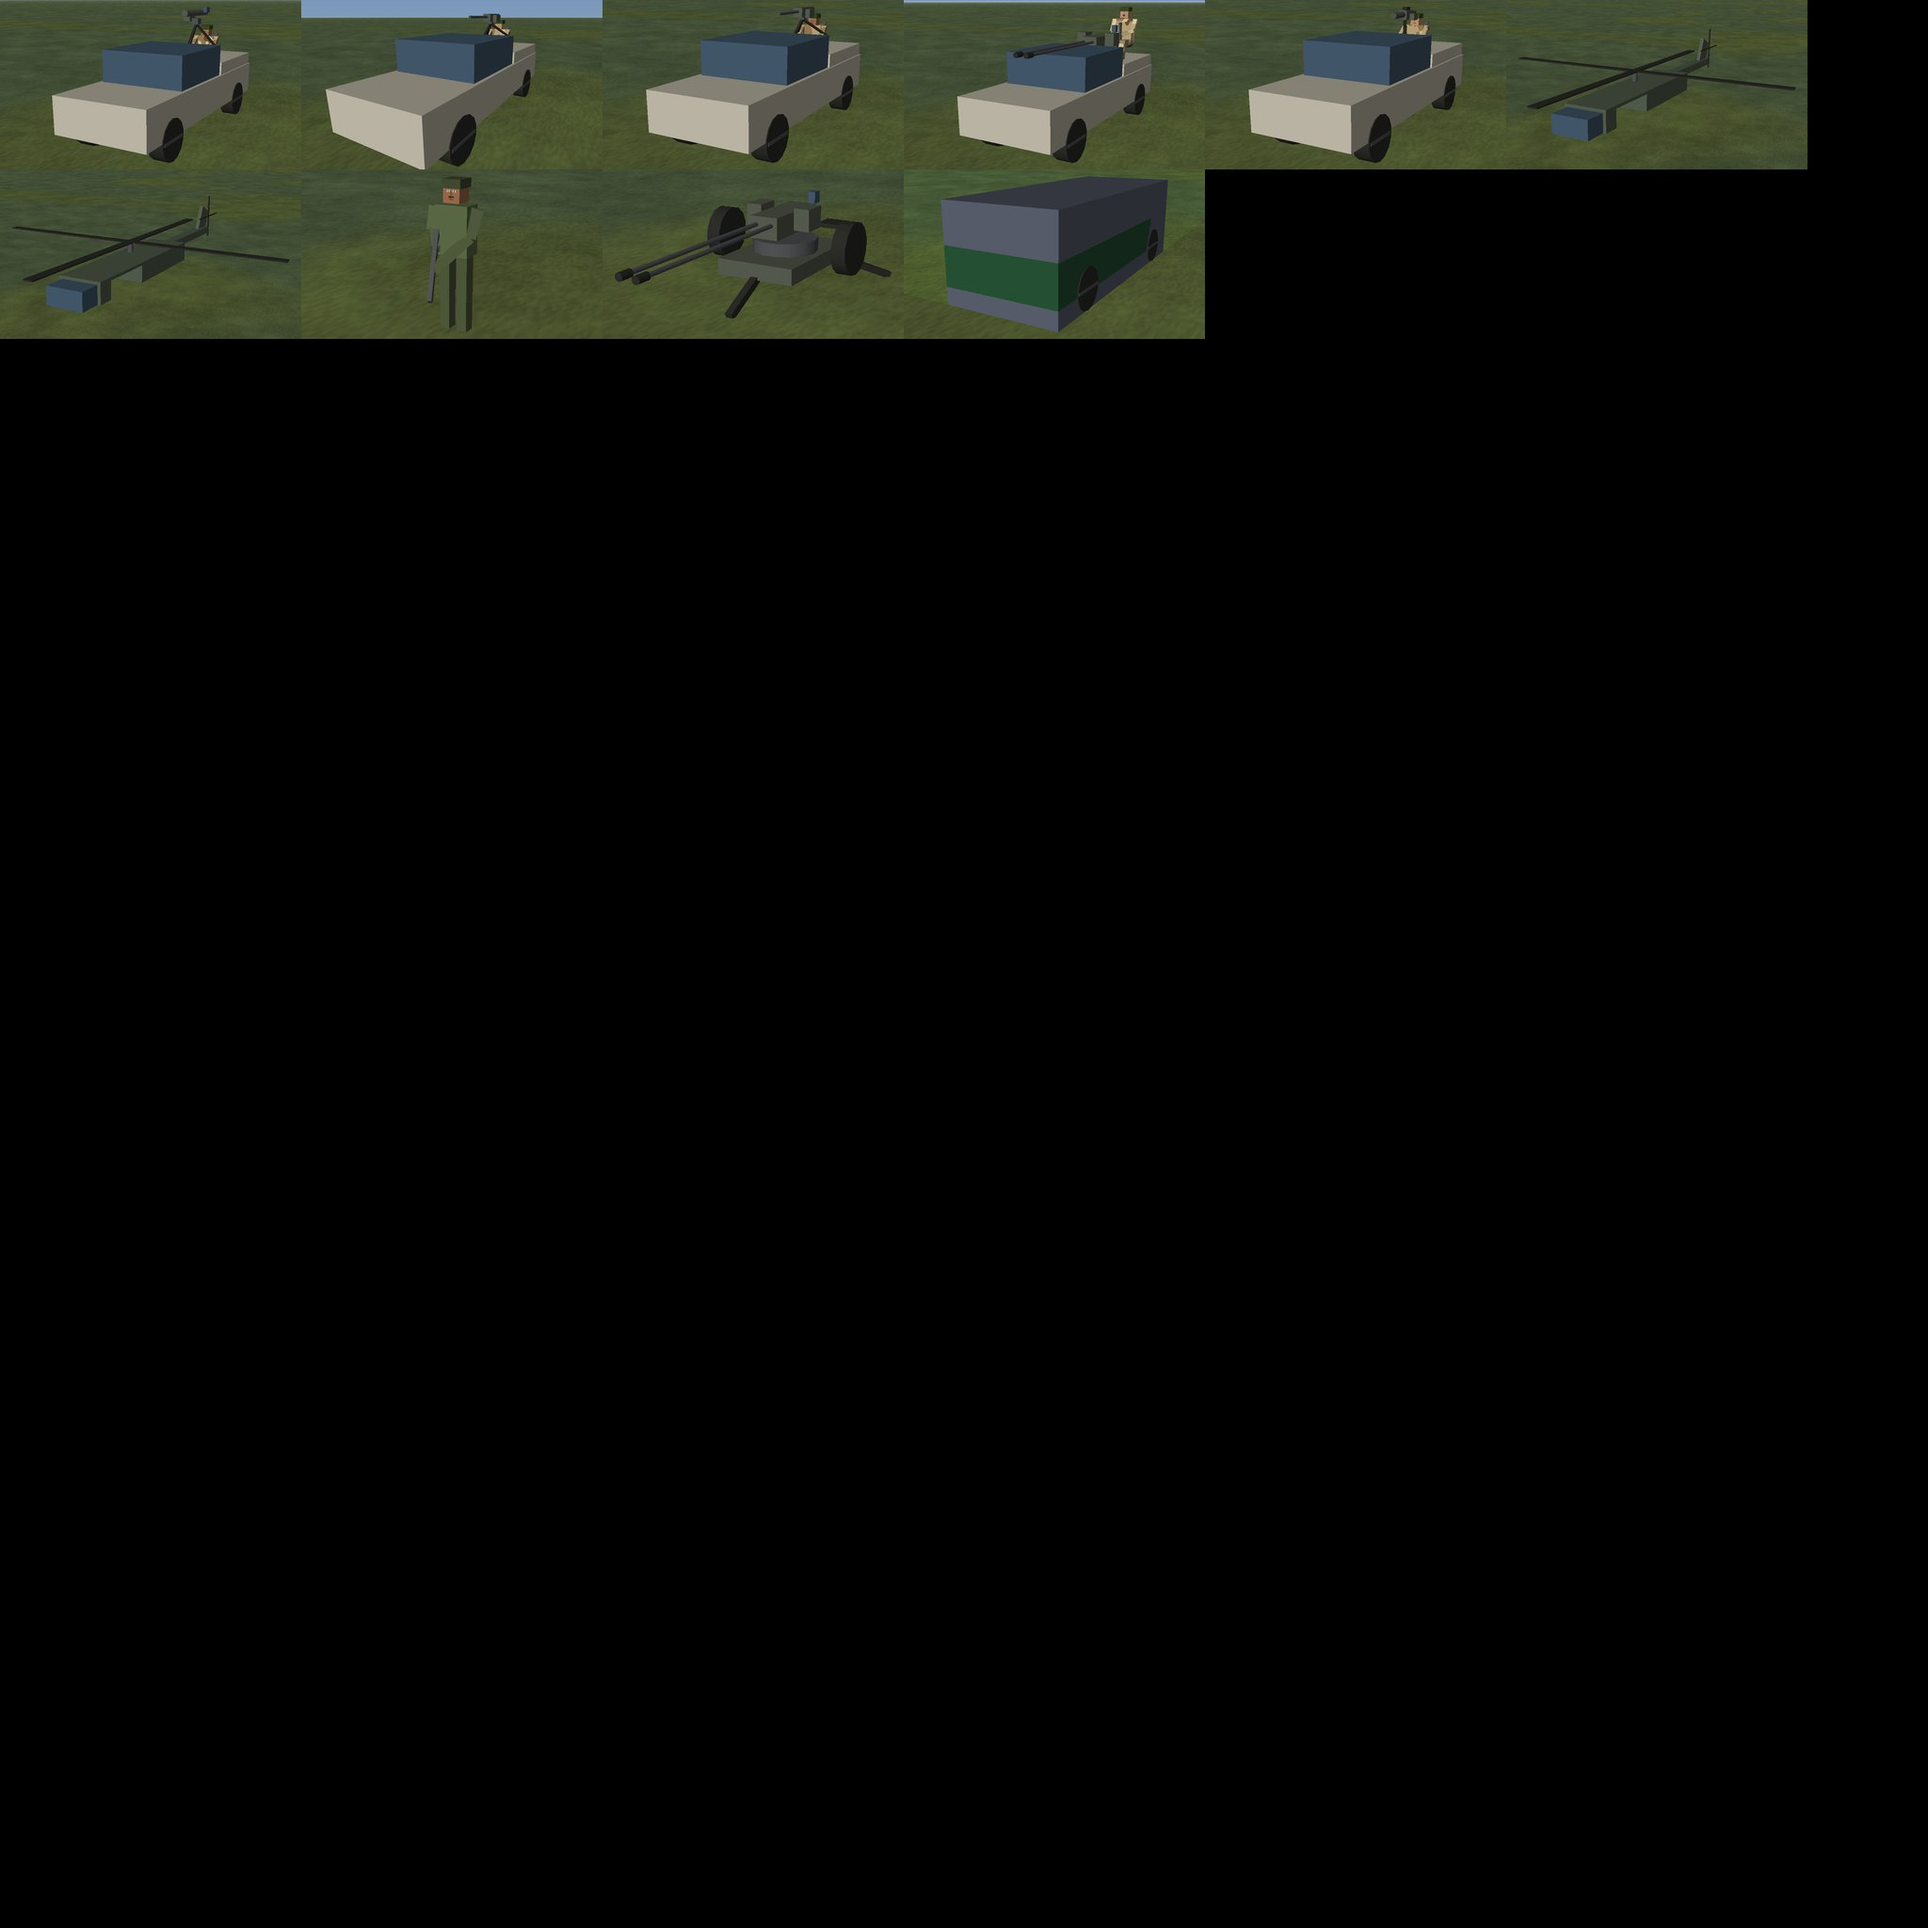
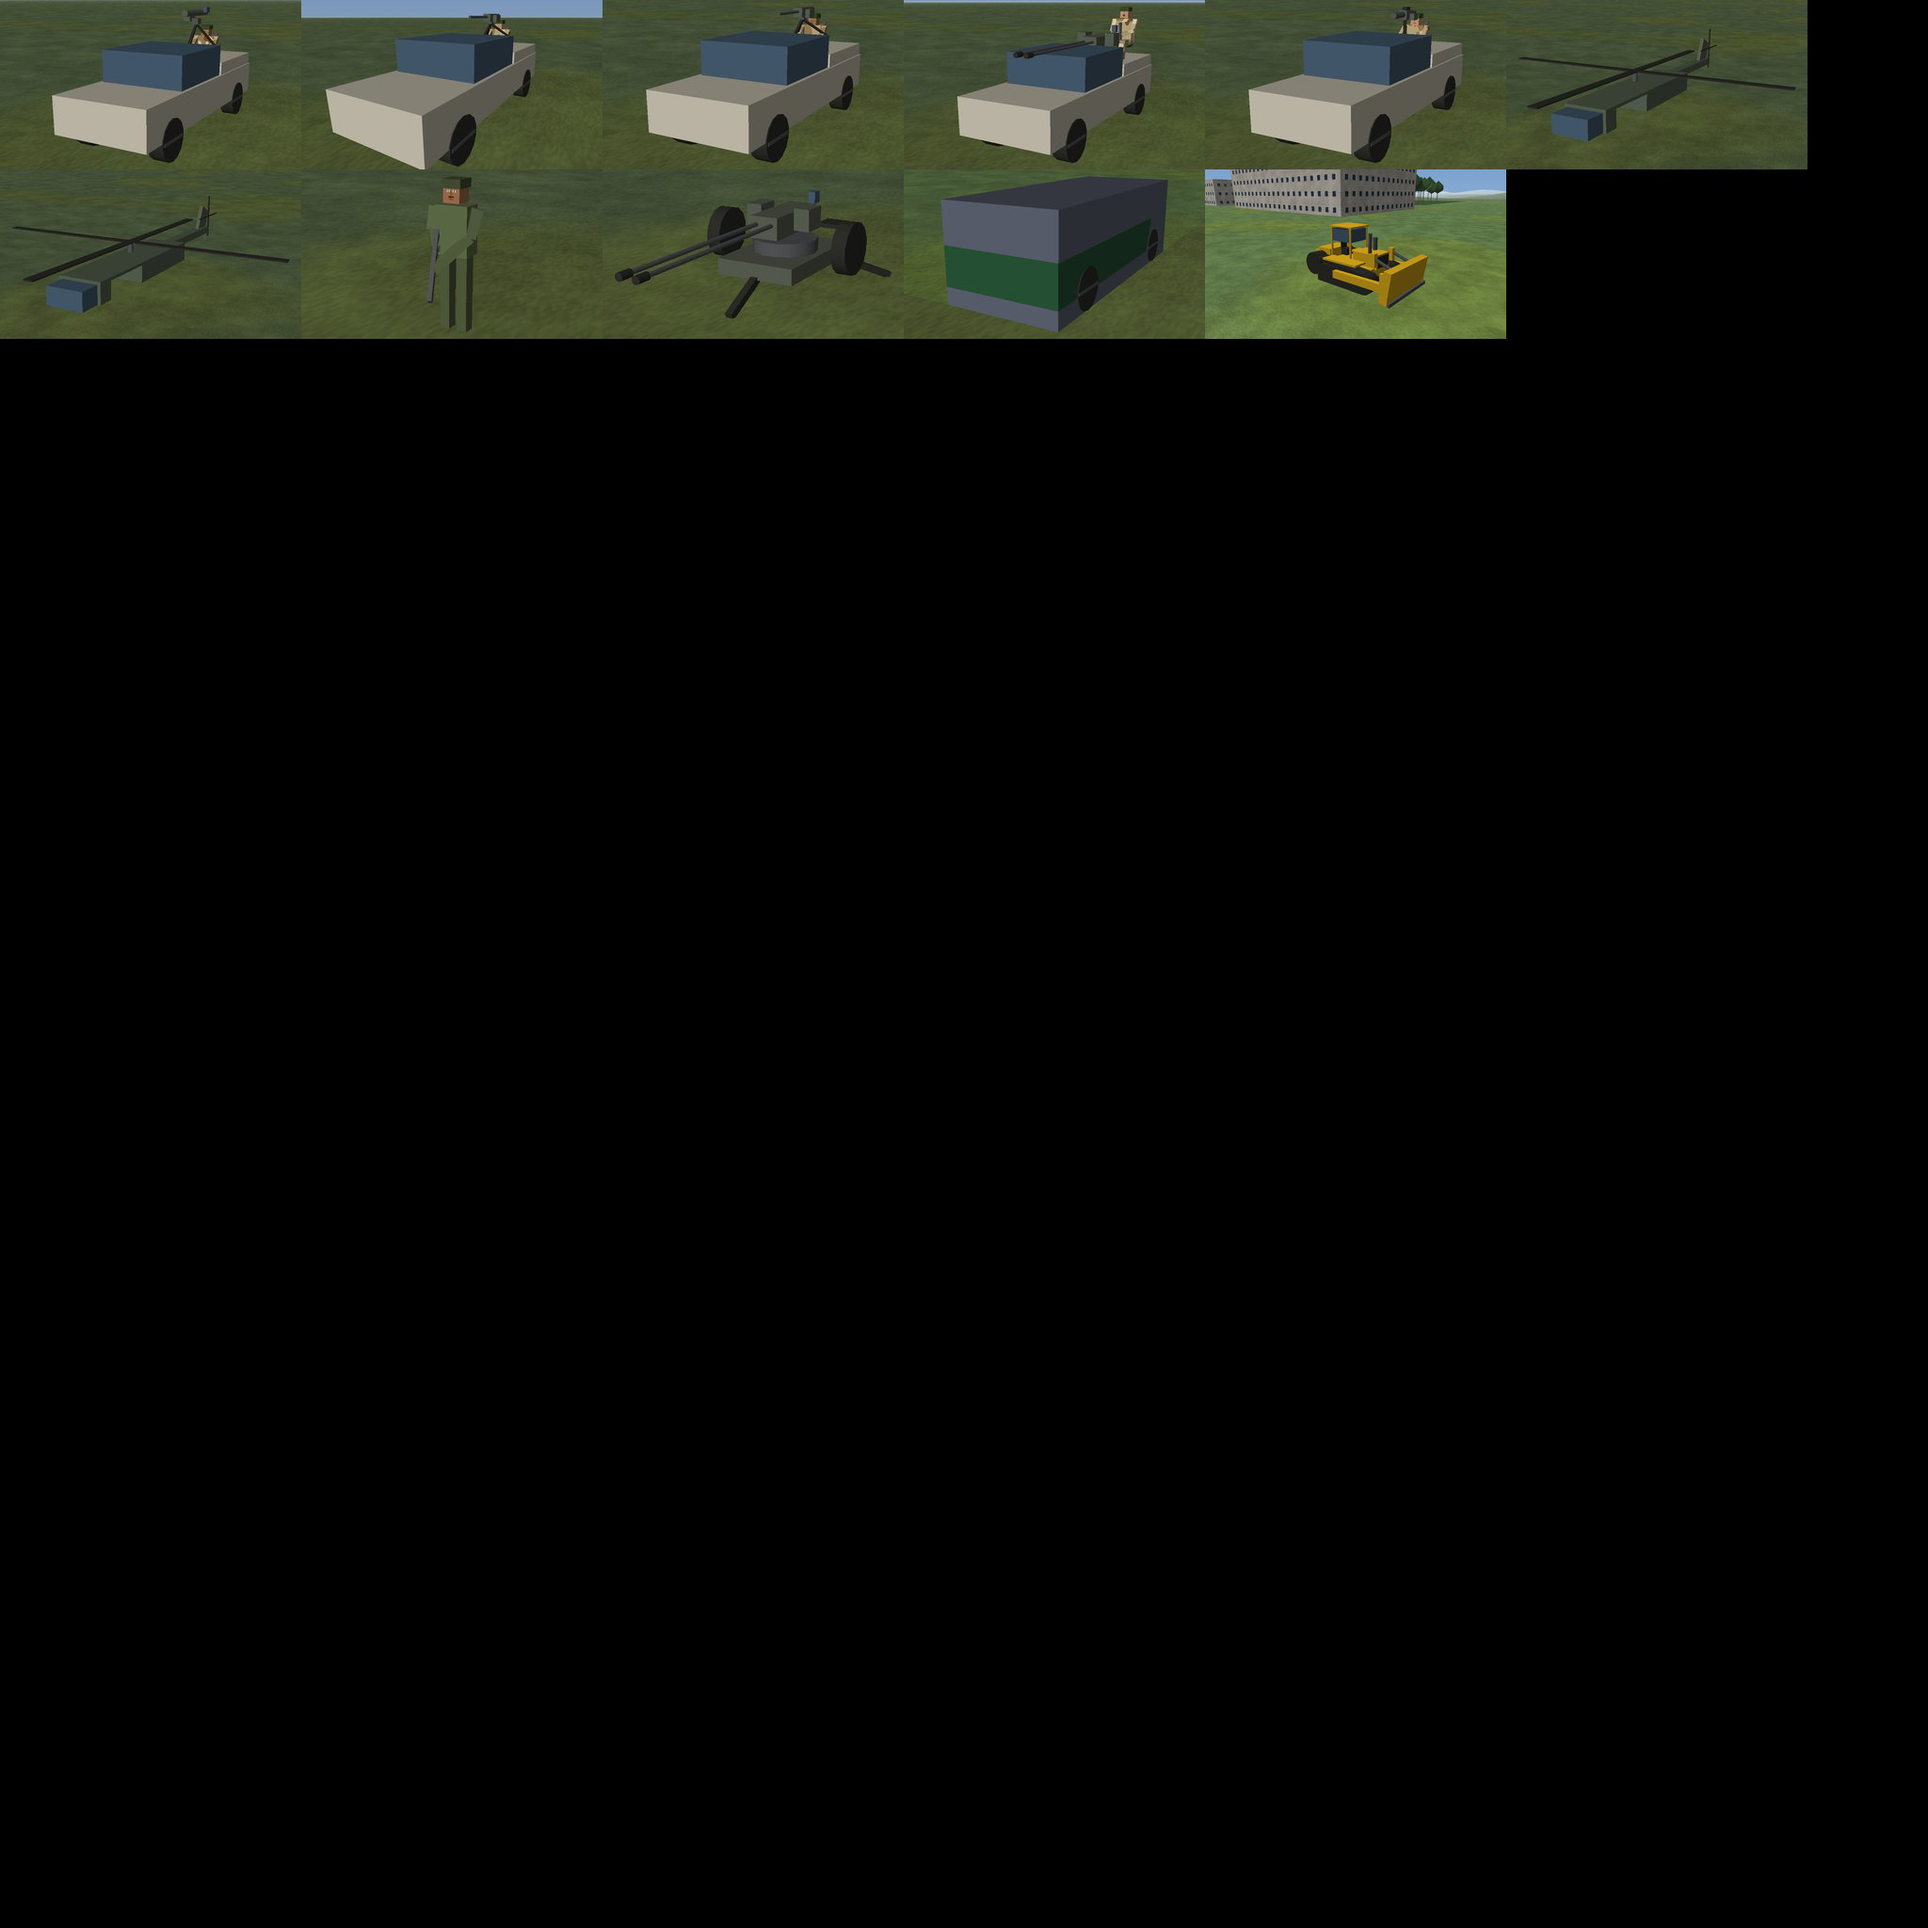
CE-6007: the bulldozer's gallery thumbnail (atlas page 1, scripts/thumbnails.py --add-image) and the two pinned picker rails
Claude-Session: https://claude.ai/code/session_018A6b3V2pAUU7h7gX44hUPF

Changed region(s): [[0.625, 0.0625, 0.7812, 0.1875]]

diff --git a/Hrot/Engine/Hrot.Presentation.Tests/AddEntity/EntityTypeCatalogTests.cs b/Hrot/Engine/Hrot.Presentation.Tests/AddEntity/EntityTypeCatalogTests.cs
@@ -344,8 +344,8 @@ public sealed class EntityTypeCatalogTests
         // ⭐ CE-4273 (Next_2 A-10) — the seed's 75 + the Car. ⛔ SUPERSEDED: "slot = position in sorted order" — true of the seed only; §2j says a name
         //   KEEPS its slot and an addition takes the next free one (the Car sorts among the C's and sits in slot 75). The invariant now: one cell per
         //   name, on the grid, inside the pages.
-        Assert.Equal(76, idx.Count);
-        Assert.Equal(76, ThumbnailAtlas.Shared.Count);
+        Assert.Equal(77, idx.Count);   // ⭐ CE-6007 — + the bulldozer (page 1, slot 4/1)
+        Assert.Equal(77, ThumbnailAtlas.Shared.Count);
         Assert.True(idx.TryGet("Car", out _, out _, out _, out _, out _));
 
         var names = idx.Names.ToList();
@@ -606,6 +606,7 @@ public sealed class EntityTypeCatalogTests
         109 Technical (minigun) | dis 1.1.0.6.0.0.0 | family WheeledUtility | folder Platform/Land/Small Wheeled Utility Vehicle | icon _wheeled
         110 Technical (ZU-23-2) | dis 1.1.0.6.0.0.0 | family WheeledUtility | folder Platform/Land/Small Wheeled Utility Vehicle | icon _wheeled
         111 HMMWV (M2, no crew) | dis 1.1.225.6.0.0.0 | family WheeledUtility | folder Platform/Land/United States/Small Wheeled Utility Vehicle | icon _wheeled
+        112 Bulldozer (D9-class) | dis 1.1.225.9.1.0.0 | family Bulldozer | folder Platform/Land/United States/Large Tracked Utility Vehicle | icon -
         200 Rifleman | dis 3.1.225.1.0.0.0 | family Person | folder Life Form/Land/United States/Infantry (HROT) | icon _person
         201 Officer | dis 3.1.225.1.0.0.0 | family Person | folder Life Form/Land/United States/Infantry (HROT) | icon _person
         202 Rifleman (Stinger) | dis 3.1.225.1.0.0.0 | family Person | folder Life Form/Land/United States/Infantry (HROT) | icon _person
